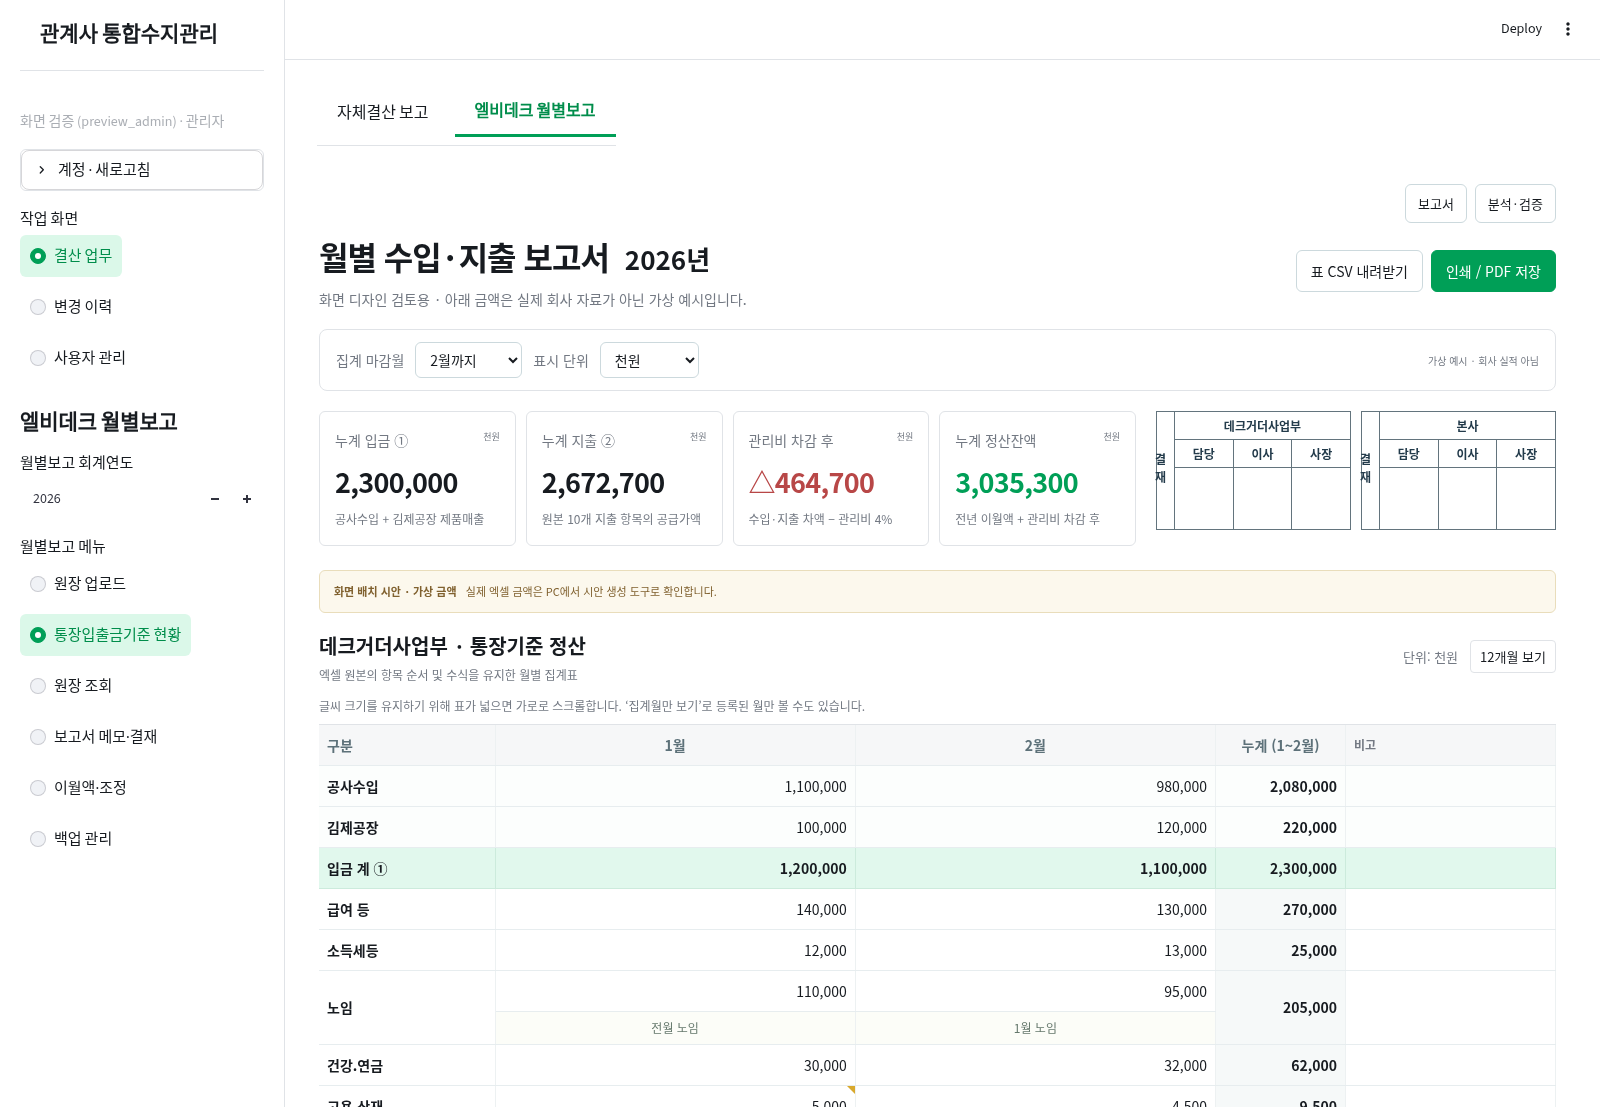
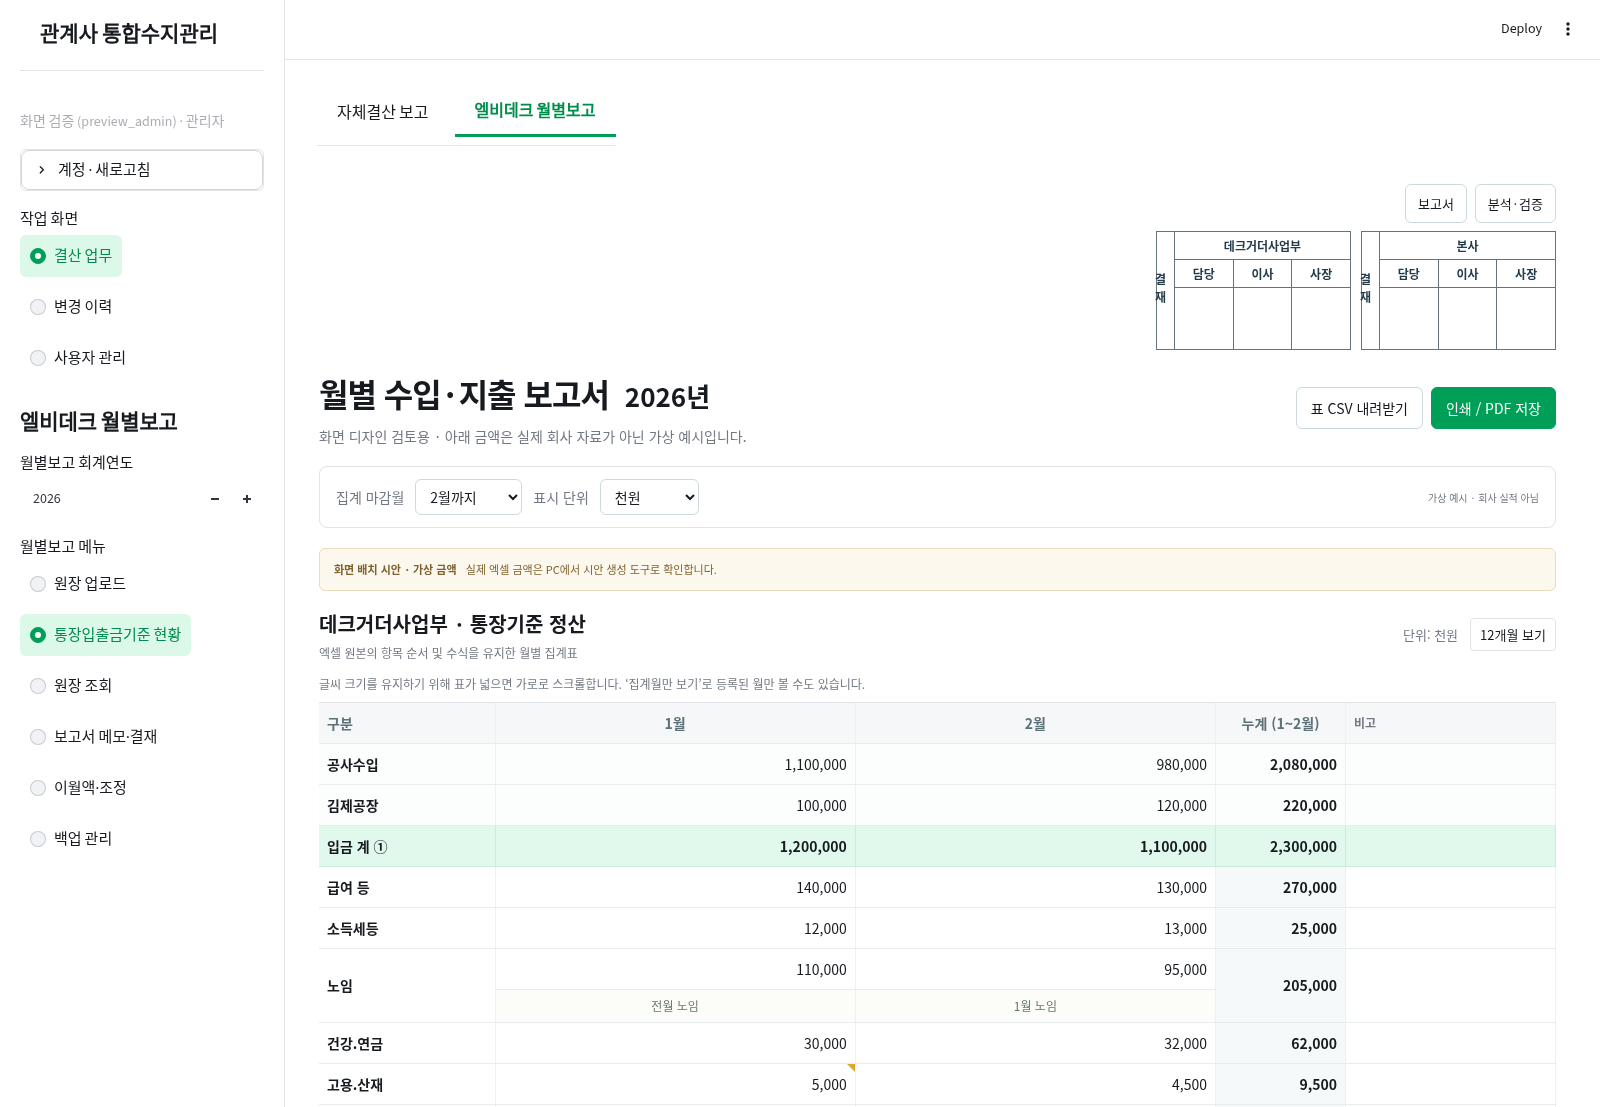
Place approvals above report and cumulative totals in a final single row

diff --git a/monthly_preview_template.html b/monthly_preview_template.html
@@ -33,12 +33,21 @@ h1{font-size:32px;letter-spacing:-1px;margin:0 0 10px}h1 small{font-size:26px;ma
 @media(max-width:1100px){.summary-strip{grid-template-columns:1fr}.approval-area{justify-content:flex-end}.card .value{font-size:28px}}
 @media(max-width:800px){.pagehead{grid-template-columns:1fr}.cards{grid-template-columns:repeat(2,minmax(0,1fr))}h1{font-size:26px}h1 small{font-size:23px}.approval-area{flex-wrap:wrap}}
 @media print{.summary-strip{display:block;margin-bottom:10px}.summary-strip .cards{margin-bottom:10px}.approval-area{justify-content:flex-end}.pagehead{display:block}.approval-table .sign-cell{height:18mm}h1{font-size:21pt}h1 small{font-size:18pt}#reporttable td,#reporttable th{padding:4px}.card .value{font-size:18pt}.card .klabel,.card .kfoot{font-size:10pt}.embedded-switch{display:none!important}.pagehead .actions{display:none}.settlement,.footnotes,.print-screen-hint{display:none!important}}
+
+/* Requested report order: approvals, settlement table, four totals in one row. */
+.report-approvals{justify-content:flex-end;margin:0 0 20px;break-inside:avoid}
+.report-totals{display:block;margin:24px 0 0;overflow-x:auto}
+.report-totals .cards{display:grid;grid-template-columns:repeat(4,minmax(0,1fr));min-width:720px;gap:12px}
+.settlement{display:none!important}
+@media print{.report-approvals{margin:0 0 10px;justify-content:flex-end}.report-totals{display:block;margin:12px 0 0;overflow:visible;break-inside:avoid}.report-totals .cards{grid-template-columns:repeat(4,minmax(0,1fr));min-width:0;gap:8px;margin:0}.report-totals .card{padding:10px}.report-totals .value{font-size:18pt}}
+@media print{.report-approvals{margin-bottom:6px}.pagehead{margin:0 0 8px}h1{margin-bottom:6px}.panelhead{padding:0 0 8px}.panelhead small,.legend{display:none!important}#reporttable td,#reporttable th{padding:3px 4px;line-height:1.15}.report-totals{margin-top:8px}.report-totals .card{padding:8px 10px}.report-totals .card .klabel{margin-bottom:5px}.report-totals .card .kfoot{margin-top:4px}}
 </style></head><body>
 <aside><div class="brand">LB DECK<small>데크·거더사업부 수지관리</small></div><div class="nav-head">MONTHLY REPORT</div><button class="nav-item active" id="nav-report" onclick="tab('report')"><span>▦</span>수입·지출 보고서</button><button class="nav-item" id="nav-analysis" onclick="tab('analysis')"><span>≡</span>자료 분석·검증</button><div class="side-note"><strong>보고서 화면 시안 · v1</strong><br>원본 엑셀 기준 / 읽기 전용<br>숫자를 누르면 집계 근거를 확인합니다.<br>회사 원본은 외부로 전송하지 않습니다.</div></aside>
 <main><div class="embedded-switch"><button class="control" onclick="tab('report')">보고서</button><button class="control" onclick="tab('analysis')">분석·검증</button></div><div class="topbar"><span>엘비데크 월별보고 &nbsp; / &nbsp; 통장 입출금 기준</span><span class="pill">공급가액 기준 · 부가세 제외</span></div>
+<div class="approval-area report-approvals" id="approvals"></div>
 <div class="pagehead"><div class="title-and-approvals"><div><h1>월별 수입·지출 보고서 <small id="yearlabel"></small></h1><div class="subtitle" id="subtitle"></div></div></div><div class="actions"><button class="control" onclick="downloadCSV()">표 CSV 내려받기</button><button class="control primary" onclick="tab('report');window.print()">인쇄 / PDF 저장</button></div></div>
 <div class="filterbar"><label for="endMonth">집계 마감월</label><select id="endMonth" onchange="render()"></select><label for="unit">표시 단위</label><select id="unit" onchange="render()"><option value="1000">천원</option><option value="1">원</option><option value="1000000">백만원</option></select><span class="source" id="source"></span></div>
-<section id="report"><div class="summary-strip"><div class="cards" id="cards"></div><div class="approval-area" id="approvals"></div></div><div class="notice" id="notice"></div><div class="panel"><div class="panelhead"><div class="paneltitle">데크거더사업부 · 통장기준 정산<small>엑셀 원본의 항목 순서 및 수식을 유지한 월별 집계표</small></div><div class="paneltools"><span id="unitlabel"></span><button id="viewbtn" onclick="annual=!annual;render()">집계월만 보기</button></div></div><div class="print-screen-hint">글씨 크기를 유지하기 위해 표가 넓으면 가로로 스크롤합니다. ‘집계월만 보기’로 등록된 월만 볼 수도 있습니다.</div><div class="scroll"><table id="reporttable"></table></div><div class="legend">● 조정 포함: 원본 수식에 직접 입력한 금액이 있습니다. &nbsp; | &nbsp; — 미집계 월 &nbsp; | &nbsp; △ 음수 &nbsp; | &nbsp; 금액 클릭: 원장·부가세·조정 내역</div><div class="settlement" id="settlement"></div></div><div class="sticky-register" id="sticky-register"></div><div class="footnotes"><div><h3>작성 기준</h3><p>통장에서 실제 입금·지출된 자료를 기초로 부가세와 원본 조정을 반영했습니다. 발생주의 손익계산서와는 구분합니다.</p><p>법인세 중간예납 및 사무실 보증금 제외는 원본의 작성 지침입니다. 제외 적용 여부의 개별 거래 검토는 별도입니다.</p><p>‘미불’은 이 보고서의 지출 분류명입니다. 미지급금 잔액을 뜻하지 않으며 전년 발생분 지급도 포함됩니다.</p><p id="pastclaims"></p></div><div><h3>이번 파일에서 확인할 항목</h3><p id="reviewnotes"></p><p>하도급지킴이 지급 건은 원본 지침에 따라 수시→미불로 재분류할 수 있습니다.</p><p>아래 정산잔액은 이월액과 공급가액 정산의 합계이며 실제 통장 잔액과 같다고 볼 수 없습니다.</p></div></div></section>
+<section id="report"><div class="notice" id="notice"></div><div class="panel"><div class="panelhead"><div class="paneltitle">데크거더사업부 · 통장기준 정산<small>엑셀 원본의 항목 순서 및 수식을 유지한 월별 집계표</small></div><div class="paneltools"><span id="unitlabel"></span><button id="viewbtn" onclick="annual=!annual;render()">집계월만 보기</button></div></div><div class="print-screen-hint">글씨 크기를 유지하기 위해 표가 넓으면 가로로 스크롤합니다. ‘집계월만 보기’로 등록된 월만 볼 수도 있습니다.</div><div class="scroll"><table id="reporttable"></table></div><div class="legend">● 조정 포함: 원본 수식에 직접 입력한 금액이 있습니다. &nbsp; | &nbsp; — 미집계 월 &nbsp; | &nbsp; △ 음수 &nbsp; | &nbsp; 금액 클릭: 원장·부가세·조정 내역</div><div class="settlement" id="settlement"></div></div><div class="sticky-register" id="sticky-register"></div><div class="footnotes"><div><h3>작성 기준</h3><p>통장에서 실제 입금·지출된 자료를 기초로 부가세와 원본 조정을 반영했습니다. 발생주의 손익계산서와는 구분합니다.</p><p>법인세 중간예납 및 사무실 보증금 제외는 원본의 작성 지침입니다. 제외 적용 여부의 개별 거래 검토는 별도입니다.</p><p>‘미불’은 이 보고서의 지출 분류명입니다. 미지급금 잔액을 뜻하지 않으며 전년 발생분 지급도 포함됩니다.</p><p id="pastclaims"></p></div><div><h3>이번 파일에서 확인할 항목</h3><p id="reviewnotes"></p><p>하도급지킴이 지급 건은 원본 지침에 따라 수시→미불로 재분류할 수 있습니다.</p><p>아래 정산잔액은 이월액과 공급가액 정산의 합계이며 실제 통장 잔액과 같다고 볼 수 없습니다.</p></div></div><div class="summary-strip report-totals"><div class="cards" id="cards"></div></div></section>
 <section id="analysis" class="analysis"></section><div class="footer"><span id="footer-source"></span><span>LB DECK · MONTHLY SETTLEMENT / DESIGN PREVIEW</span></div></main>
 <div class="sticky-pop" id="sticky-pop" role="tooltip"></div><div class="drawer-backdrop" id="backdrop" onclick="if(event.target===this)closeDrawer()"><div class="drawer"><button class="close" onclick="closeDrawer()">×</button><div id="drawercontent"></div></div></div>
 <script>

diff --git a/monthly_app.py b/monthly_app.py
@@ -39,7 +39,7 @@ def report_view(report,embedded=True):
 
 def upload_page(c,year,user):
     st.subheader(f'{year}년 월별 원장 업로드')
-    st.caption('원장 읽기·화면 버전: 2026.10.30.2')
+    st.caption('원장 읽기·화면 버전: 2026.10.30.3')
     existing=store.imports(c)
     counts=c.execute("SELECT COUNT(*),COALESCE(SUM(CASE WHEN department='데크거더' THEN 1 ELSE 0 END),0) FROM monthly_ledger").fetchone()
     cards=st.columns(4)
@@ -221,7 +221,7 @@ def render(user):
         with st.expander('보고서 파일 저장 · 사용 안내'):
             st.download_button('보고서 HTML 다운로드',render_html(data).encode('utf-8'),
                                file_name=f'엘비데크_월별보고_{year}.html',mime='text/html')
-            st.caption('결재란·노임·미불 메모와 포스트잇은 보고서 메모·결재 메뉴에서 입력합니다. 화면 버전: 2026.10.30.2')
+            st.caption('결재란·노임·미불 메모와 포스트잇은 보고서 메모·결재 메뉴에서 입력합니다. 화면 버전: 2026.10.30.3')
     elif page=='원장 조회':
         frame=store.ledger(c)
         only_deck=st.checkbox('데크거더 집계 대상만 보기',value=True)

diff --git a/README.md b/README.md
@@ -201,3 +201,7 @@ python -m unittest discover -s tests -v
 아래 이미지는 생성형 디자인 시안이 아닌, 가상 자료를 넣어 실제 실행한 프로그램의 캡처입니다. 화면 배율과 창 너비에 따라 배치가 달라질 수 있습니다.
 
 ![월별보고 실제 실행 화면](docs/monthly-live-layout.png)
+
+### 2026.10.30.3 보고서 순서
+
+월별보고를 결재란 → 데크거더사업부·통장기준 정산표 → 하단 누계입금·누계지출·관리비 차감 후·누계정산잔액 한 줄 순서로 변경했습니다. 화면과 인쇄/PDF에 동일하게 적용합니다. 작은 화면에서는 네 요약 항목을 가로 스크롤하며 볼 수 있습니다.
